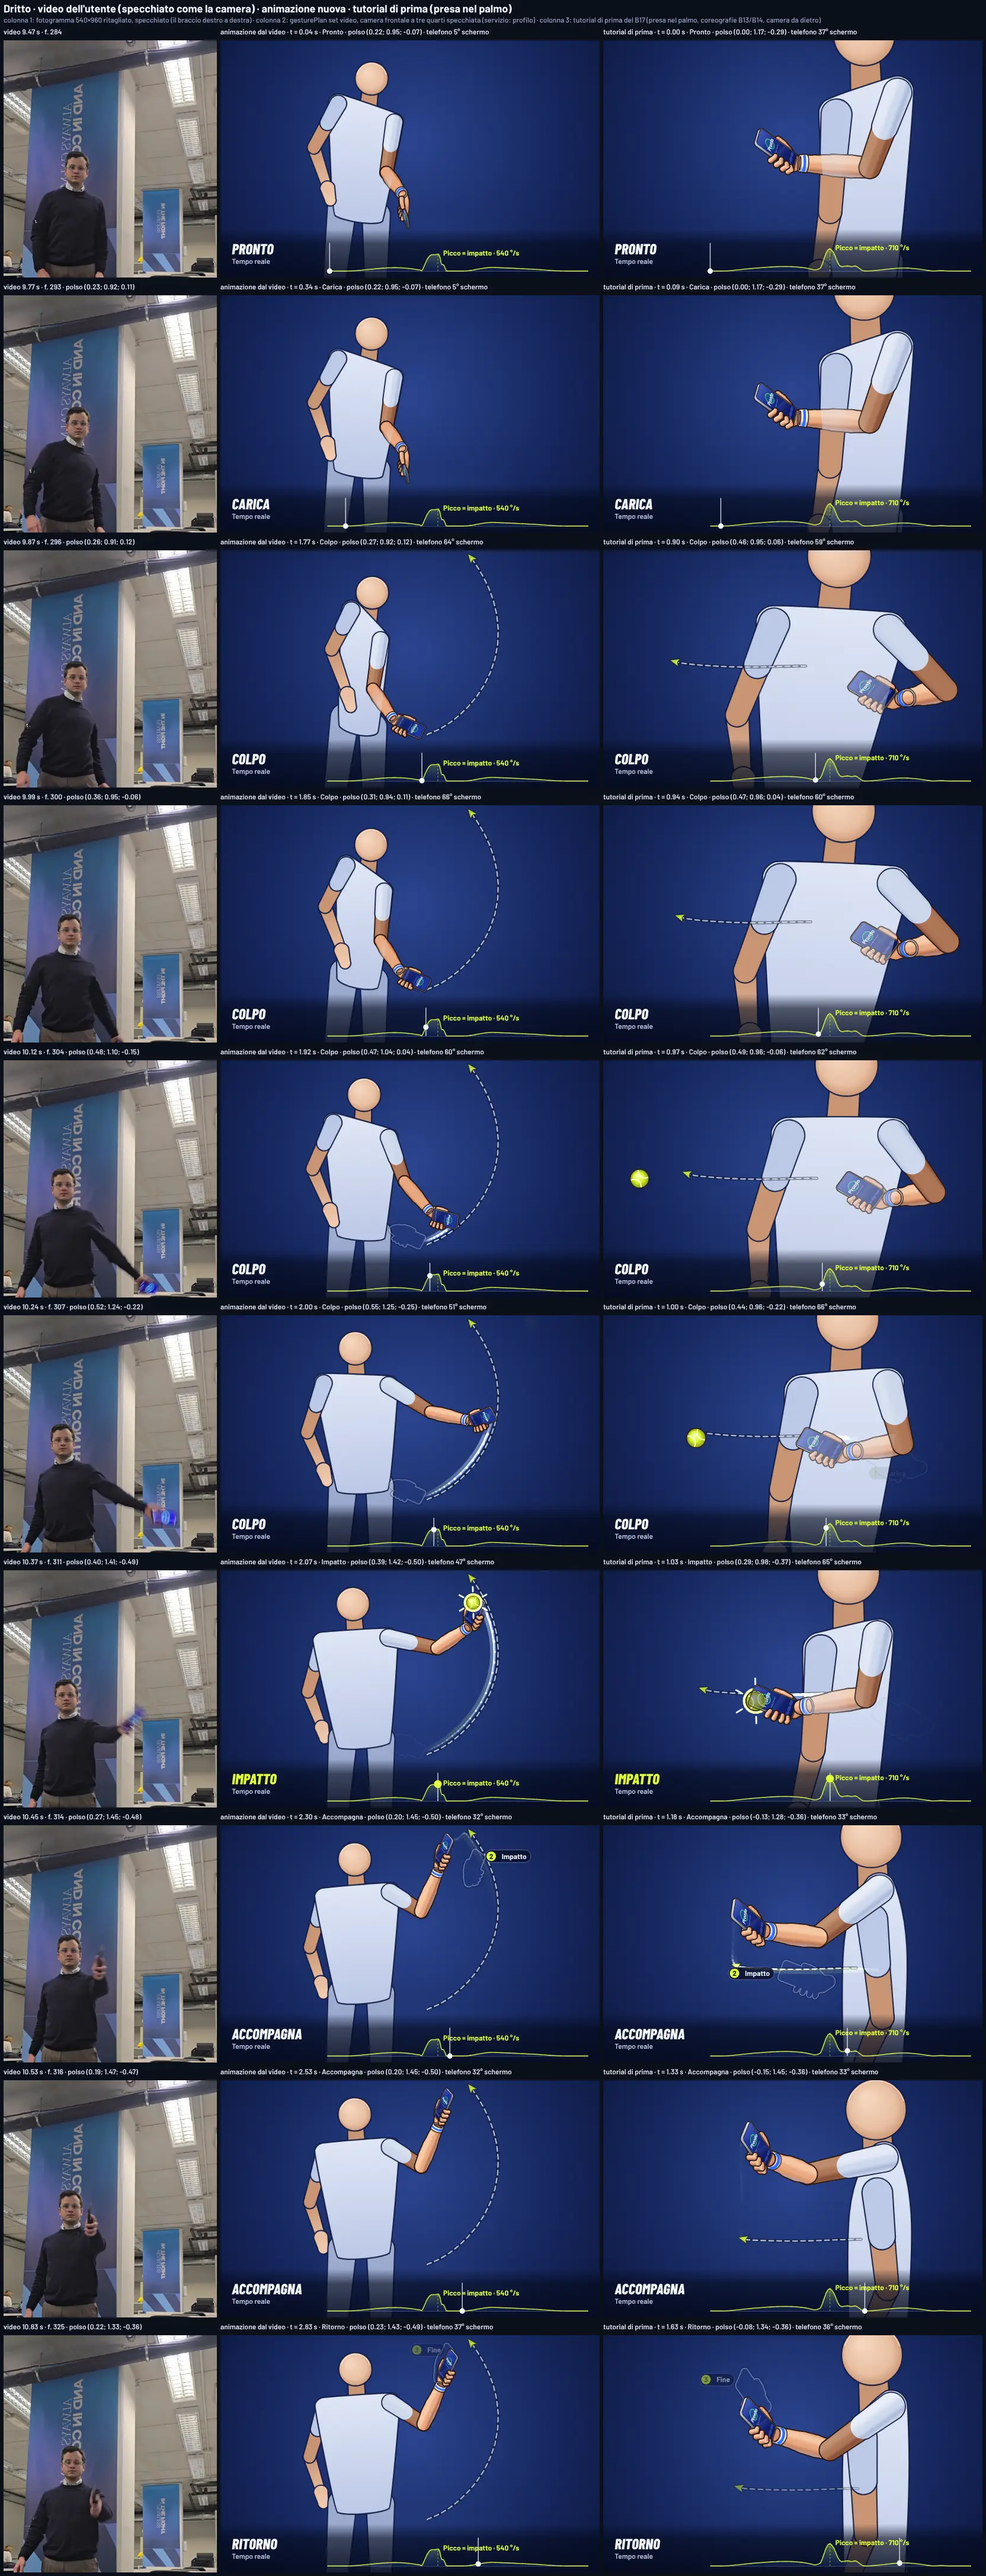
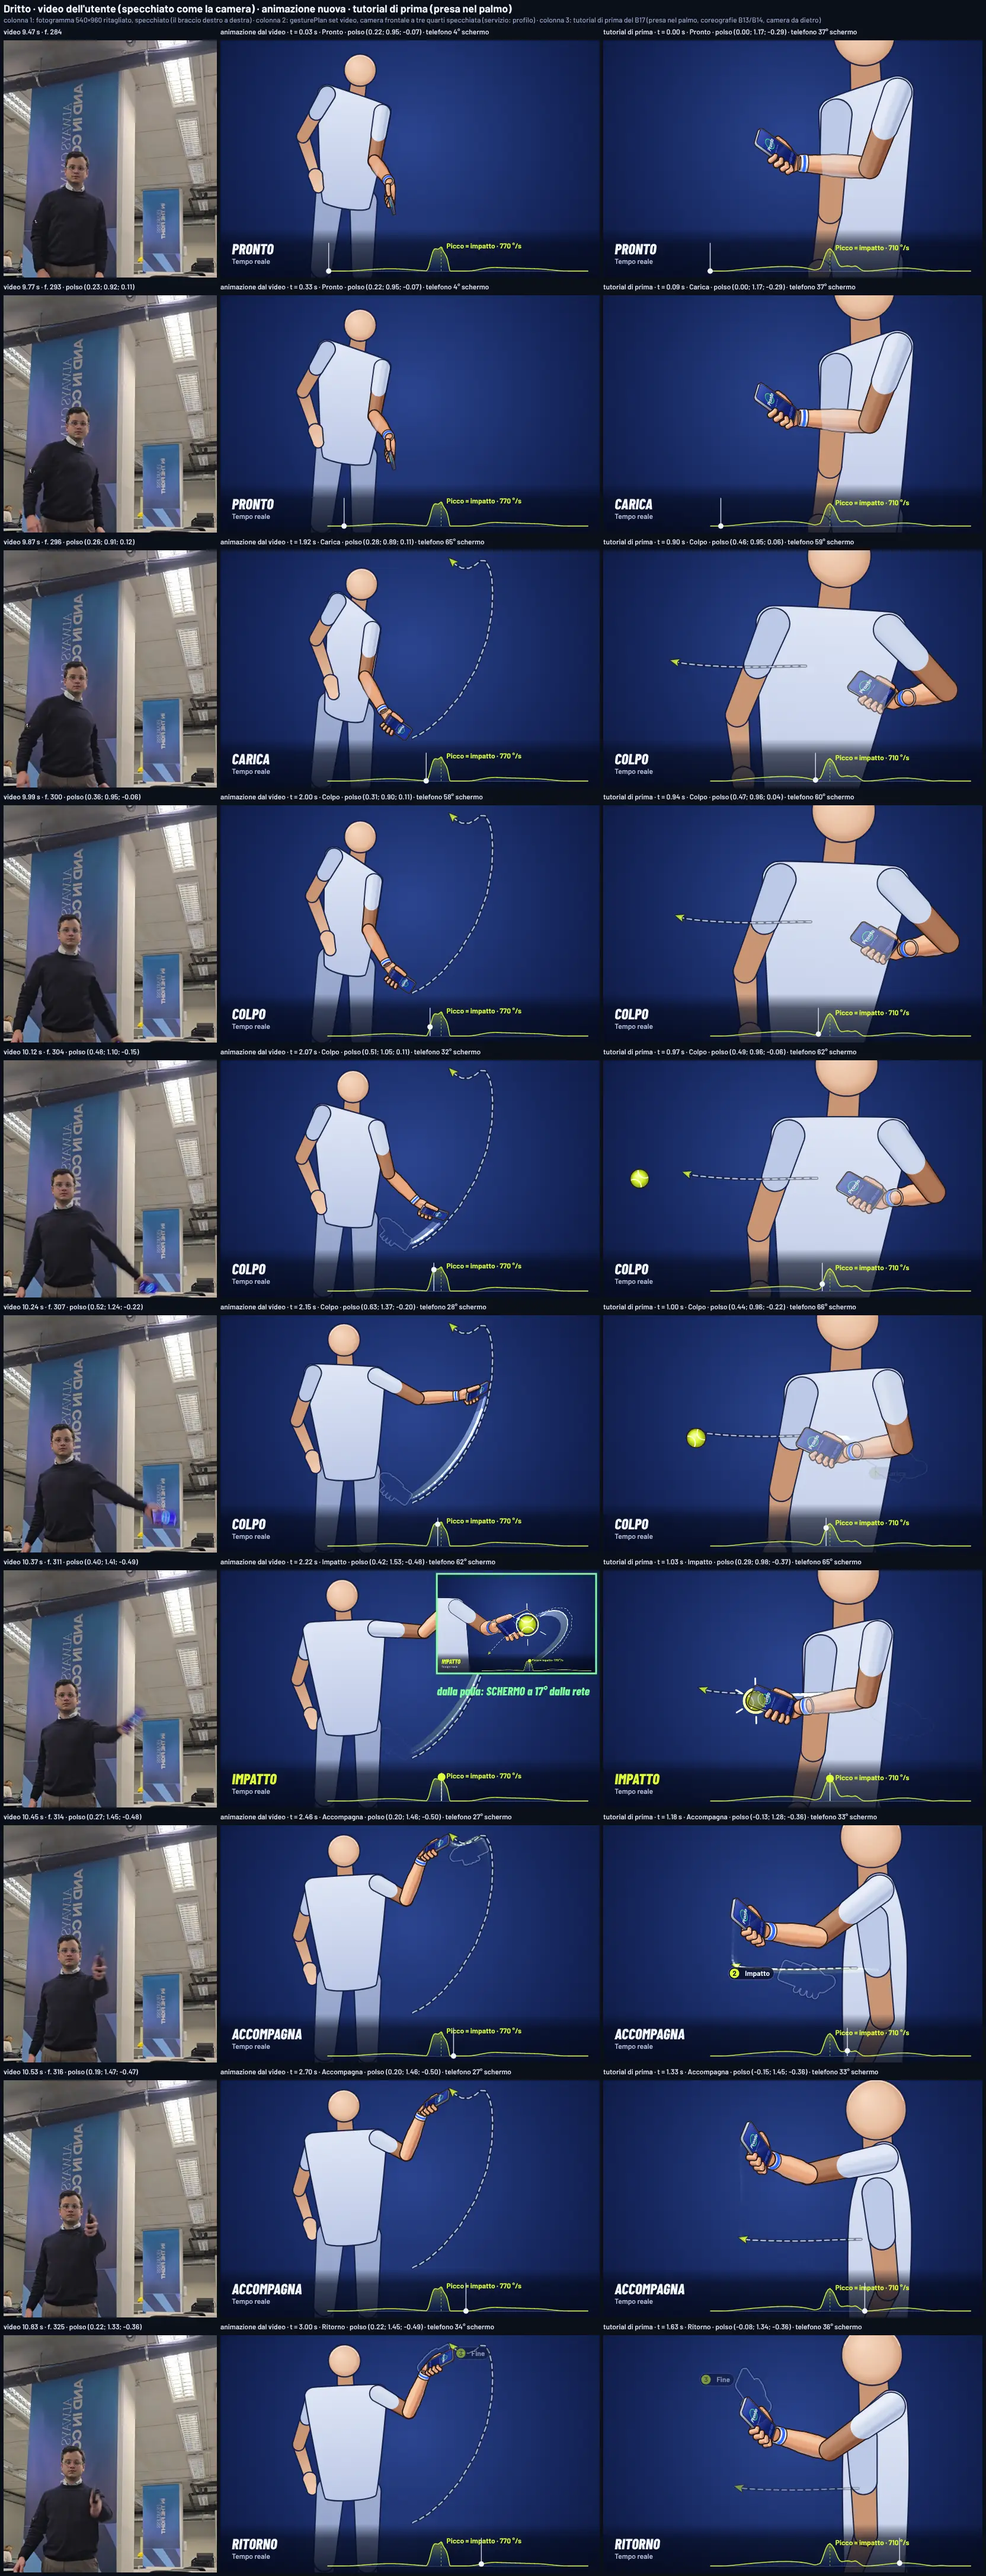
B17.1 passo B3: fogli O e VC con il primo piano dalla palla all'impatto (schermo o dorso), camere di incrociato e volée, quadro del rovescio a una mano, limiti dichiarati a 1600x1000
Claude-Session: https://claude.ai/code/session_014xUKe3fJojkqNghZjqDcyr

Changed region(s): [[0.2812, 0.0, 0.625, 1.0], [0.5312, 0.9945, 0.5625, 1.0]]

diff --git a/natpf-tennis/src/natpf/natpf_gesture_pose.js b/natpf-tennis/src/natpf/natpf_gesture_pose.js
@@ -650,7 +650,7 @@ export const CAMERAS_VIDEO = Object.freeze({
   // posizione di partenza: frontale specchiata come i colpi, dalla testa alle cosce (braccio che pende, telefono all'anca)
   ready: Object.freeze({ dir: [-.259, .087, -.962], dist: 2.6, mirror: true, frameBody: 'head', read: CAMERAS.ready.read }),
   drop: Object.freeze({ dir: [0, .087, -.996], dist: 3.4, mirror: true, whole: true, frameBody: 'head', read: CAMERAS.drop.read }),
-  volley: Object.freeze({ dir: [-.462, -.383, -.8], dist: 3.4, mirror: true, whole: true, follow: Object.freeze({ window: .25, mix: .6, mixSmall: .8, size: .4 }), read: CAMERAS.volley.read }),
+  volley: Object.freeze({ dir: [-.462, -.383, -.8], dist: 3.4, mirror: true, whole: true, follow: Object.freeze({ window: .1, mix: .9, mixSmall: .9, size: .37, arrow: .025 }), read: CAMERAS.volley.read }),
 });
 // camera di una scheda per insieme di coreografie: nell'insieme del video quella frontale (CAMERAS_VIDEO), se c'è
 export const camSpec = (id, set = 'legacy') => (set === 'video' && CAMERAS_VIDEO[id]) || CAMERAS[id] || null;

diff --git a/natpf-tennis/src/natpf/natpf_gesture_demo.js b/natpf-tennis/src/natpf/natpf_gesture_demo.js
@@ -295,7 +295,9 @@ export function motion(id, grip = GRIP_STYLE, set = undefined){
       const r = handRig(p, H);
       for (const v of [[-HW, HH, 0], [HW, HH, 0], [-HW, -HH, 0], [HW, -HH, 0]]) whole.push(r.T(v));
       whole.push(r.W, elb[i], ...r.fingers.map(f => f.pts[3]));
-      const fh = gestureFreeHand(id, t, { grip, set }); if (fh) whole.push(fh);
+      // (passo B3: il braccio libero in equilibrio del rovescio a una mano non allarga il quadro: con la sua mano aperta dietro il
+      // soggetto all'impatto scendeva al 27 % a 1600×1000; la spalla sinistra c'è già)
+      const fh = GESTURES[id]?.balance ? null : gestureFreeHand(id, t, { grip, set }); if (fh) whole.push(fh);
       if (p.chain && i % 12 === 0){ const B = bodyOf(p.chain); whole.push(B.S, B.shoulderL, add(B.head, [0, .11, 0]), B.waistR, B.waistL); }
     }
     if ((i % 4 === 0 || P.still) && inFrame){
